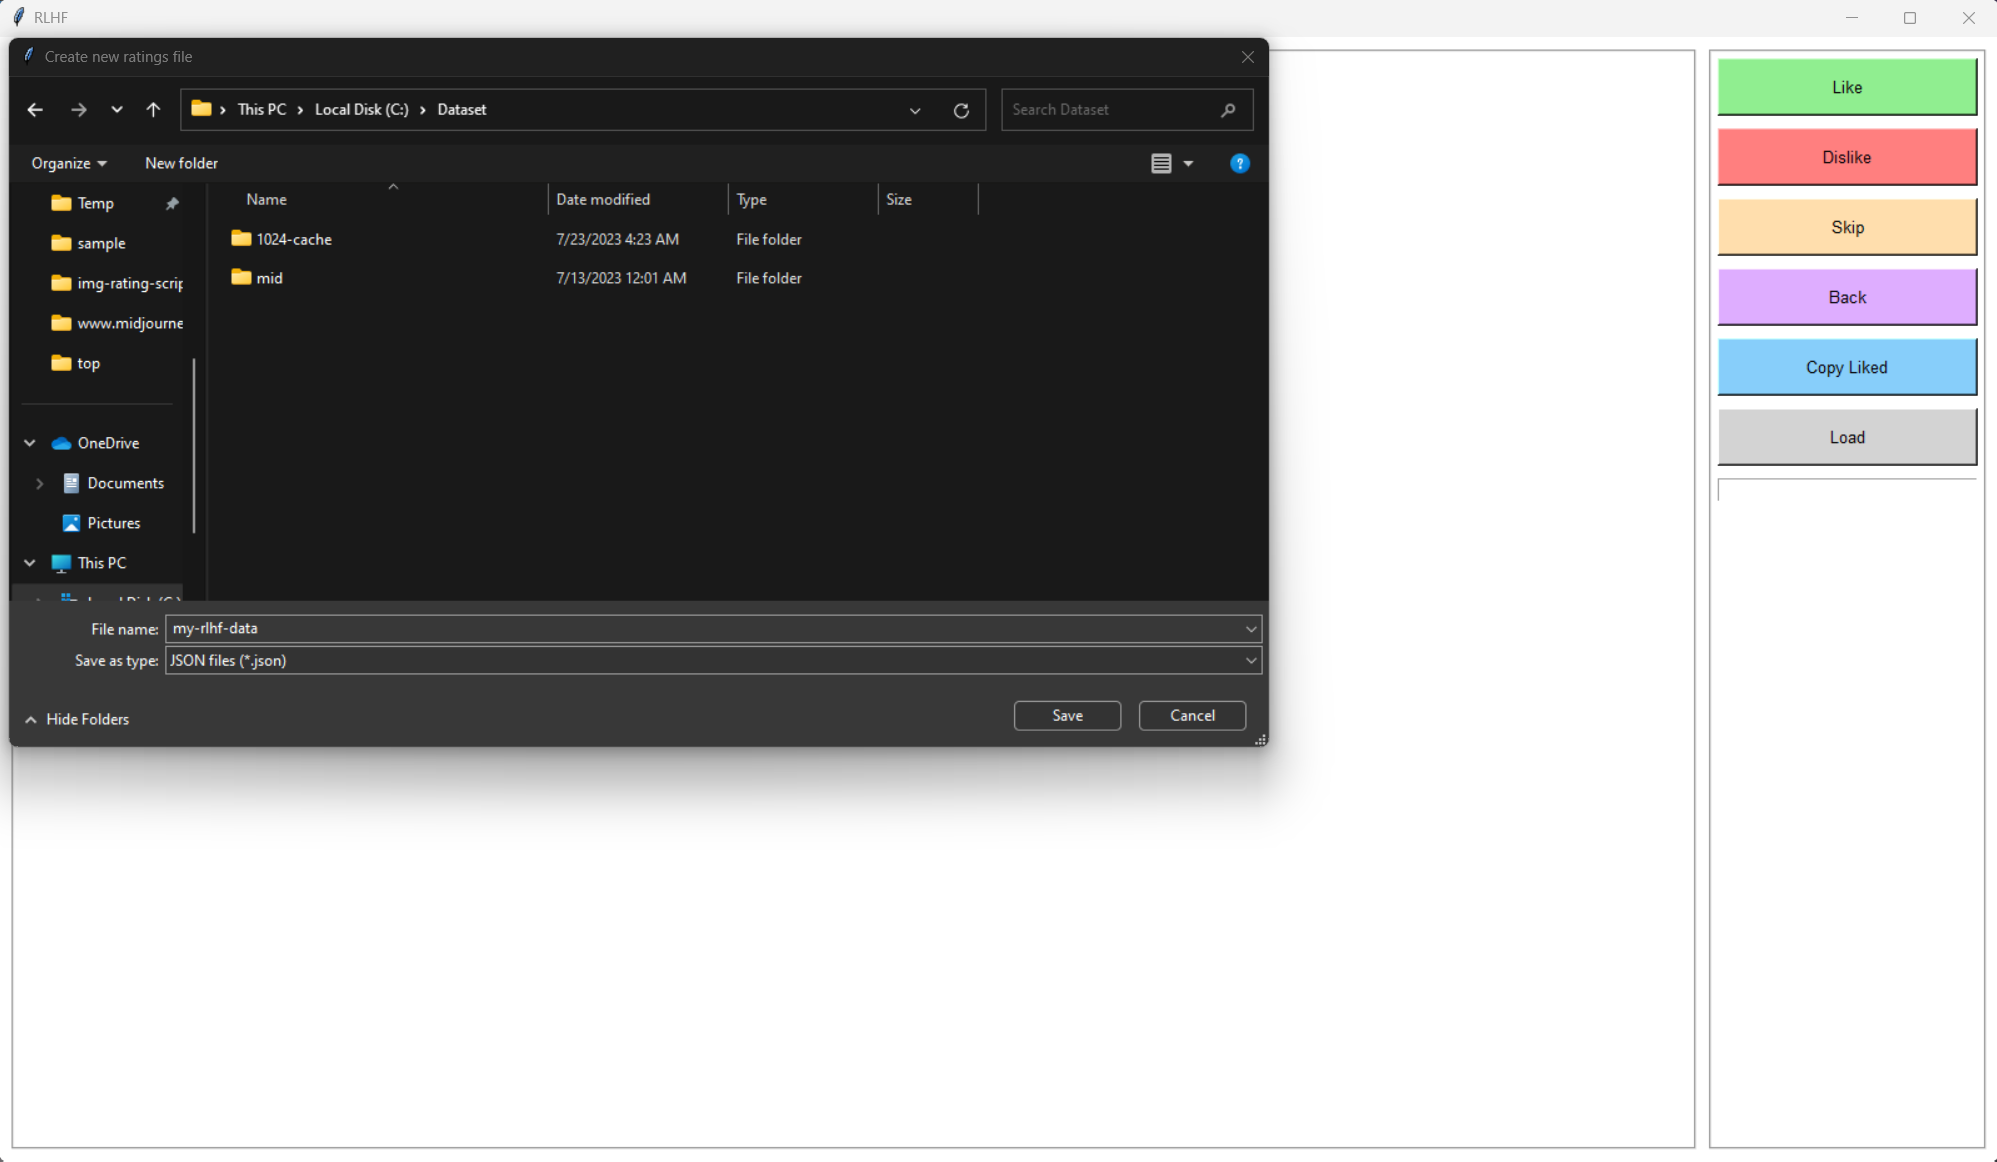
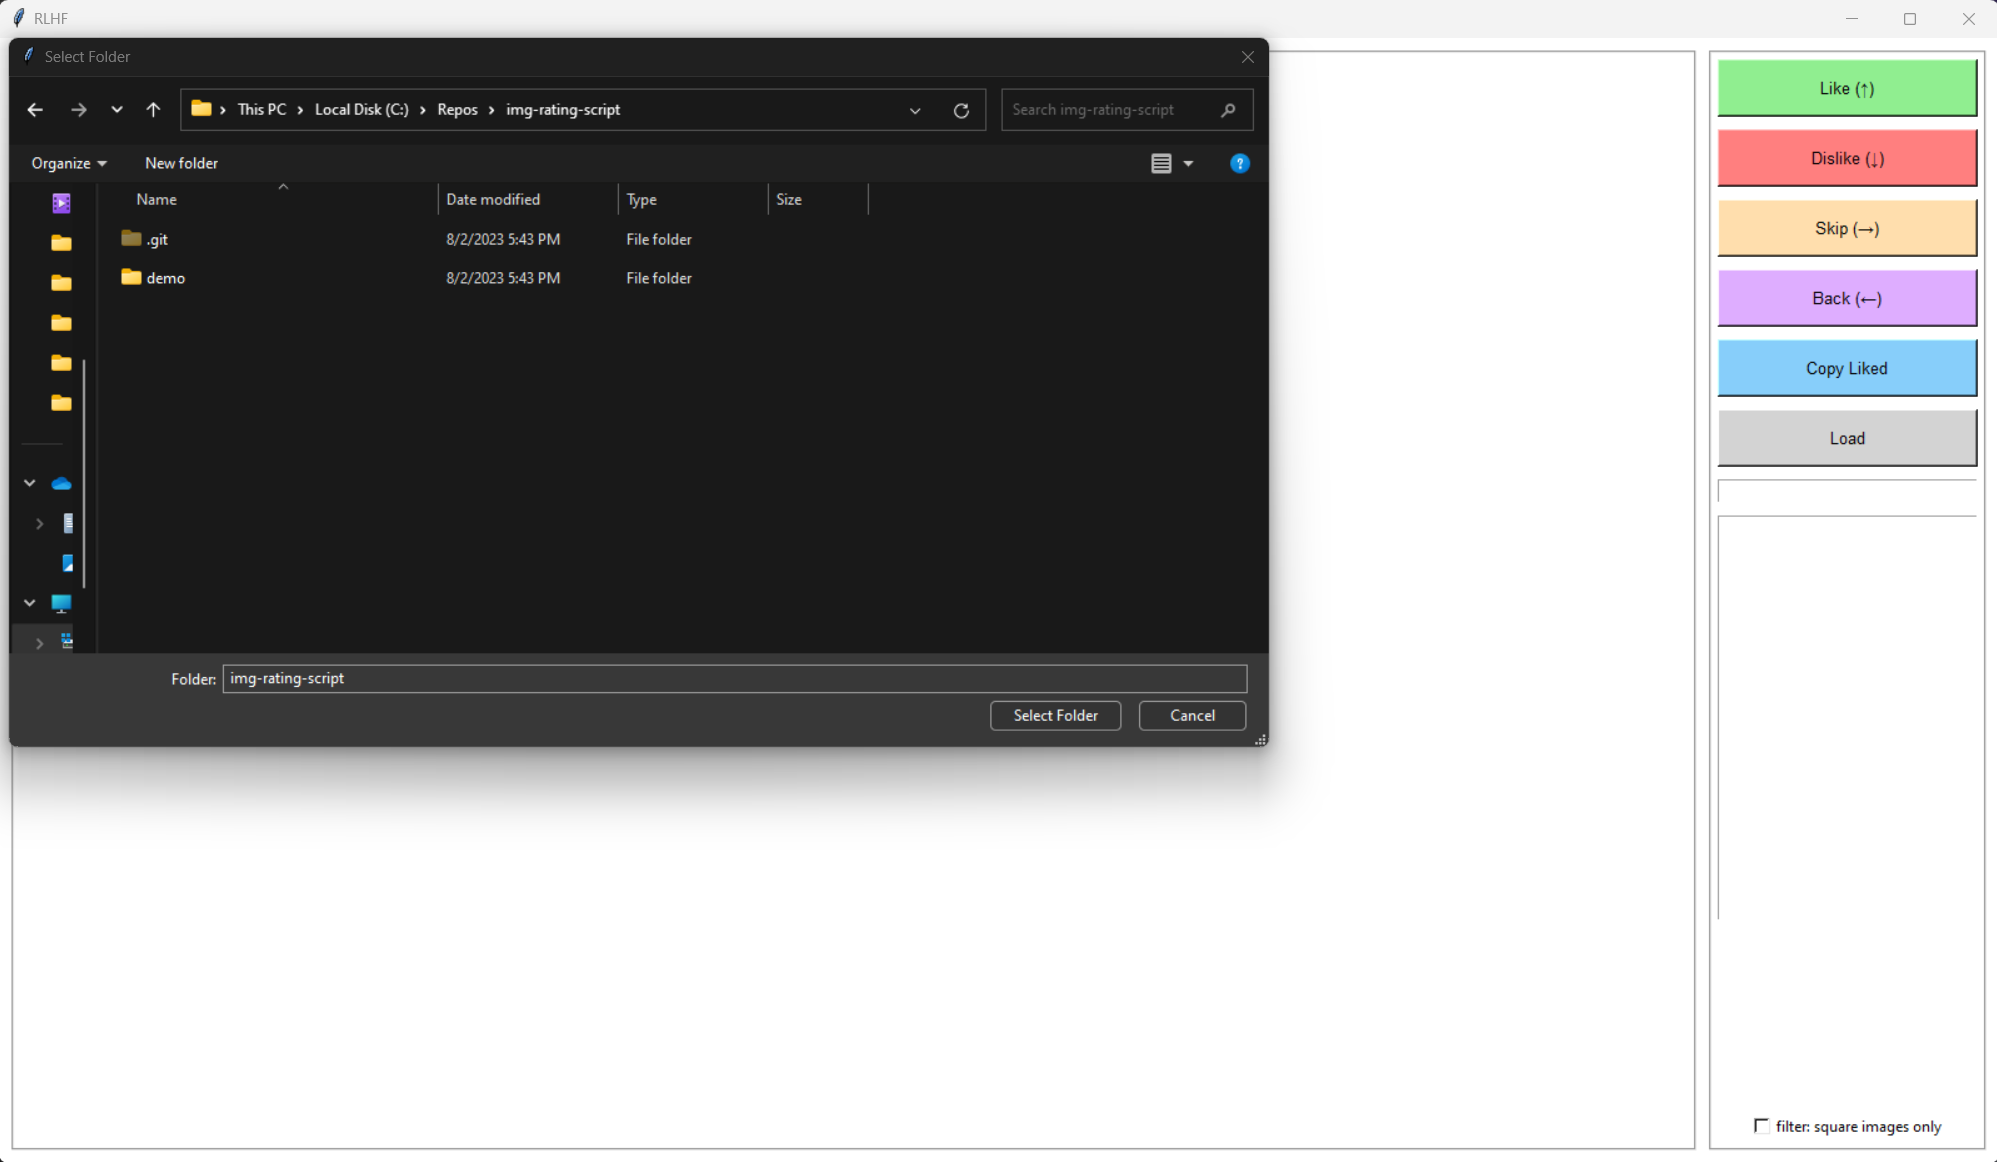
implement square image filter, update demo images

diff --git a/like-dislike.py b/like-dislike.py
@@ -6,14 +6,20 @@ import shutil
 from PIL import Image, ImageTk
 
 # Utility function to get image files, filtering already rated images
-def find_images(directory, ratings):
+def find_images(directory, ratings, filter_square=False):
     images = []
     for root, dirs, files in os.walk(directory):
         for file in files:
             if file.lower().endswith(('.png', '.jpg', '.jpeg')):
                 image_path = os.path.join(root, file).replace('\\', '/')
                 if image_path not in ratings:
-                    images.append(image_path)
+                    if filter_square:
+                        # Open the image and check if it is square
+                        with Image.open(image_path) as img:
+                            if img.width == img.height:
+                                images.append(image_path)
+                    else:
+                        images.append(image_path)
     return images
 
 
@@ -30,15 +36,20 @@ class ImageBrowser:
         self.root.bind('<Up>', lambda event: self.like())
         self.root.bind('<Down>', lambda event: self.dislike())
         
-        # Create frames for ImagePanel and ButtonsPanel
+        # Frames for ImagePanel and ButtonsPanel
         self.image_frame = tk.Frame(self.root, bg='white', bd=2, relief='groove')
         self.image_frame.pack(fill='both', expand=True, side='left', padx=(10,5), pady=10)
         self.buttons_frame = tk.Frame(self.root, bg='white', bd=2, relief='groove')
         self.buttons_frame.pack(fill='both', expand=False, side='right', padx=(5,10), pady=10)
 
-        # Create label for images and place it in the image frame
+        # Label for images and place it in the image frame
         self.image_label = tk.Label(self.image_frame, bg='white')
         self.image_label.pack(fill='both', expand=False)
+
+        # Filter checkbox for square images
+        self.filter_square_var = tk.IntVar()
+        self.filter_square_cb = tk.Checkbutton(self.buttons_frame, text="filter: square images only", variable=self.filter_square_var, command=self.update_image_list, bg='white')
+        self.filter_square_cb.pack(side='bottom', padx=5, pady=5)
 
         # Buttons
         self.create_button(self.buttons_frame, "Like (↑)", self.like, "#90EE90")
@@ -104,7 +115,7 @@ class ImageBrowser:
 
         self.directory_display.delete(0, tk.END)
         self.directory_display.insert(0, self.directory)
-        self.images = find_images(self.directory, self.ratings)
+        self.images = find_images(self.directory, self.ratings, filter_square=bool(self.filter_square_var.get()))
 
         self.current_image_index = -1 if self.images else None
         self.next_image()  # Display the first image
@@ -121,6 +132,15 @@ class ImageBrowser:
     def save_ratings(self, ratings_file):
         with open(ratings_file, 'w') as file:
             json.dump(self.ratings, file, indent=4)
+
+    # Update the list of queued images, respecting filter state
+    def update_image_list(self):
+        filter_square = bool(self.filter_square_var.get())
+        self.images = find_images(self.directory, self.ratings, filter_square)
+        self.current_image_index = -1 if self.images else None
+        self.prev_image_index = None
+        self.next_image()  # Refresh the first image
+
 
     # Resize an image to fit within the display area
     def resize_image(self, img_path):
